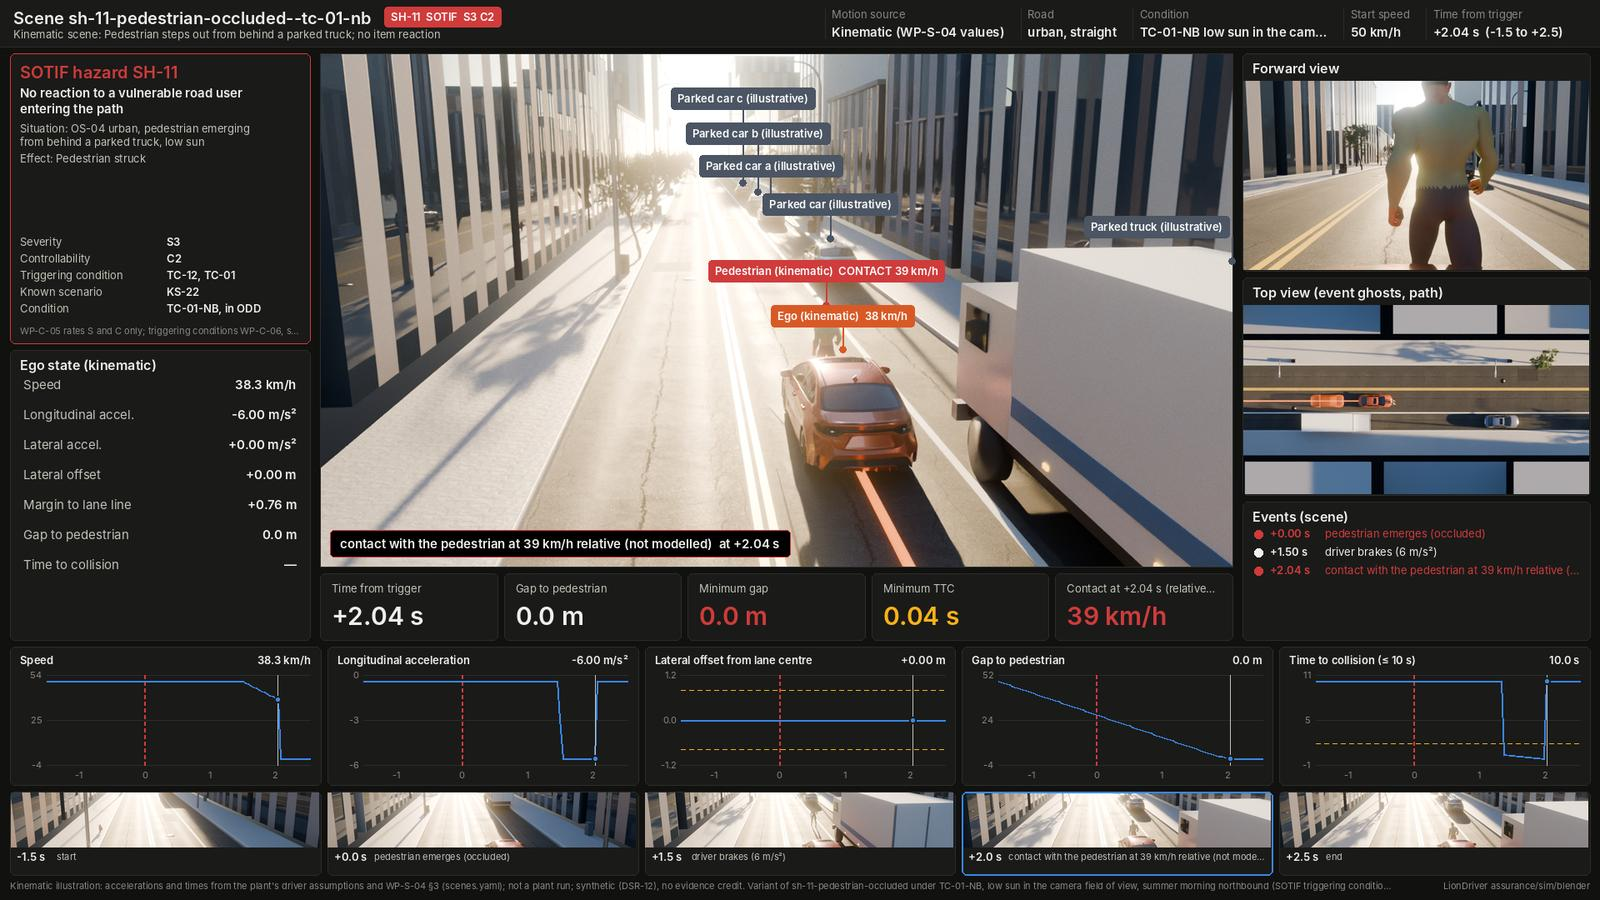
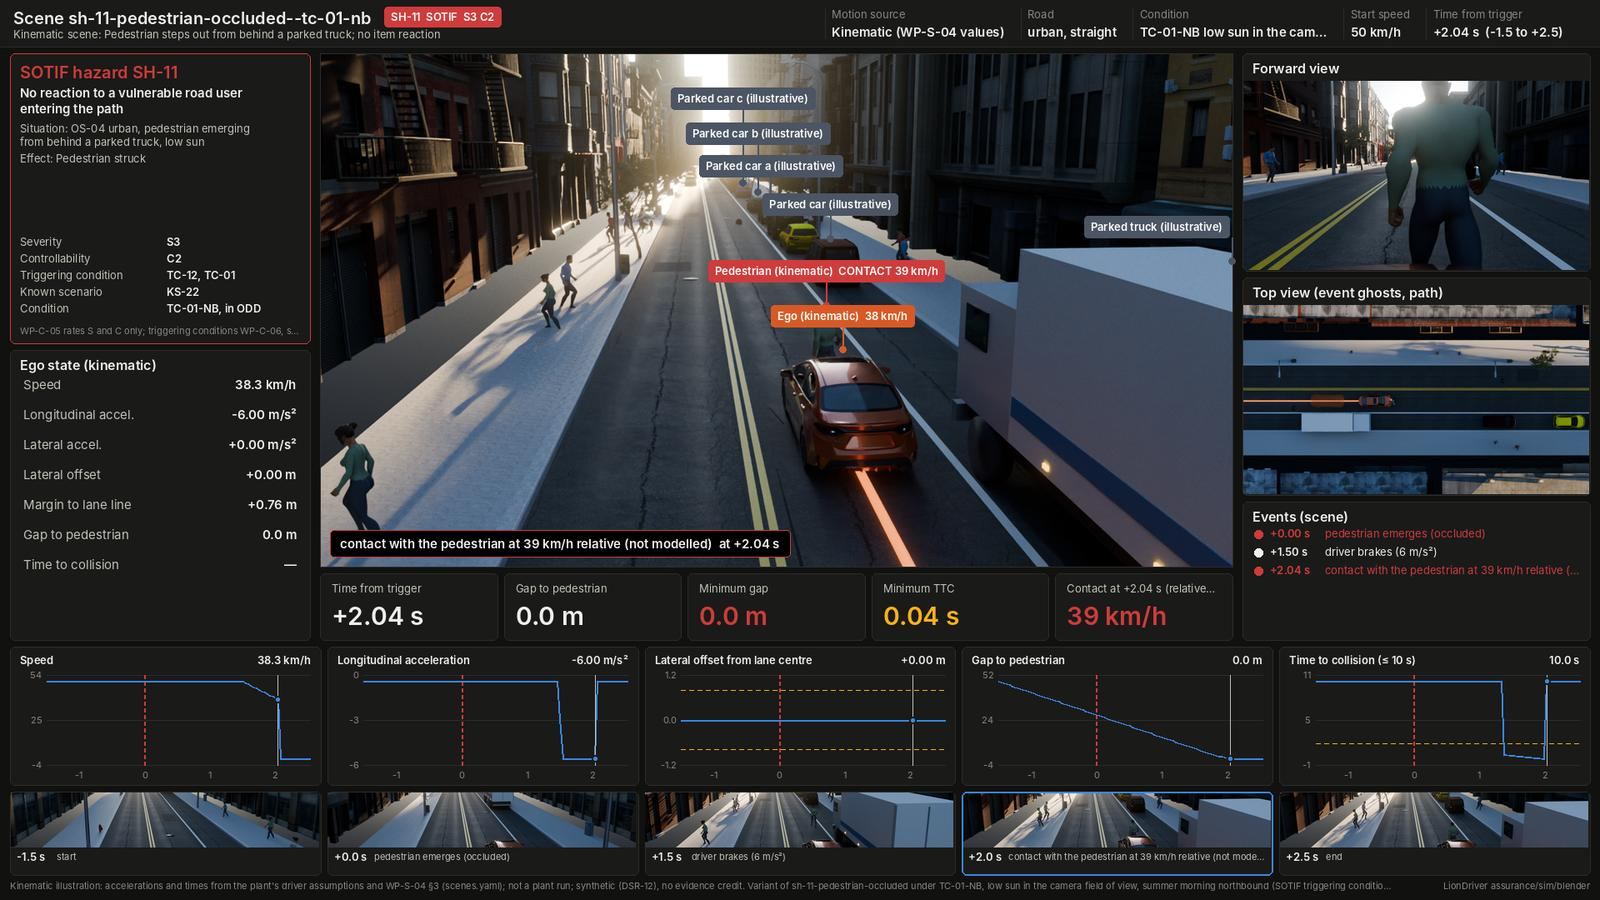
Gallery: SH-06 and SH-11 and their TC-01-NB variants re-rendered with the kits under the corridor sun
Claude-Session: https://claude.ai/code/session_01P56A1CHCgFJqADbUEGEARb

diff --git a/assurance/sim/blender/dashboards/README.md b/assurance/sim/blender/dashboards/README.md
@@ -177,3 +177,15 @@ The whole scene with the dashboard running, 24 fps (`hazard_scene.py --video`, `
 - [sh-10-lane-change-blind-spot](clips/sh-10-lane-change-blind-spot.mp4)
 - [sh-11-pedestrian-occluded](clips/sh-11-pedestrian-occluded.mp4)
 - [sh-13-construction-zone](clips/sh-13-construction-zone.mp4)
+
+## Credits
+
+The streets, farmsteads and traffic use these models from Sketchfab, each under [CC-BY 4.0](https://creativecommons.org/licenses/by/4.0/) ([`../library/`](../library/README.md) section 5). The pedestrians are CC0 (Quaternius); the ego is the purchased Corolla mesh.
+
+- [Truck Trailer FREE](https://sketchfab.com/3d-models/575958a53e3d4e9f8bcfb1ee2cef67bf) by NLM-Group, CC-BY 4.0
+- [Generic passenger car pack](https://sketchfab.com/3d-models/20f9af9b8a404d5cb022ac6fe87f21f5) by comrade1280, CC-BY 4.0
+- [Brownstone Building Set - Low poly model](https://sketchfab.com/3d-models/b15e6344acd844eabc823e1cc8332574) by DanielZhabotinsky, CC-BY 4.0
+- [Realistic chicago buildings](https://sketchfab.com/3d-models/c4a3993ef1e84e6d9d5a15c78da88aae) by 99.Miles, CC-BY 4.0
+- [Downtown Buildings Set - Low Poly model](https://sketchfab.com/3d-models/7378e7fb9c914c39880d9913a6f4e1d6) by DanielZhabotinsky, CC-BY 4.0
+- [Panola Grain Bins](https://sketchfab.com/3d-models/342892c5b0ff4519a2327d05316e266c) by frankmcmains, CC-BY 4.0
+- [Rural Buildings Set - Low Poly models](https://sketchfab.com/3d-models/51ab7e74bac347a89725f1d22b928edf) by DanielZhabotinsky, CC-BY 4.0
